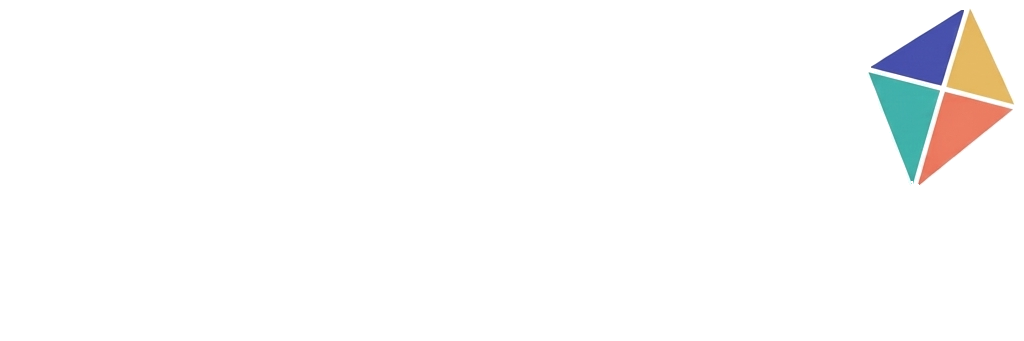
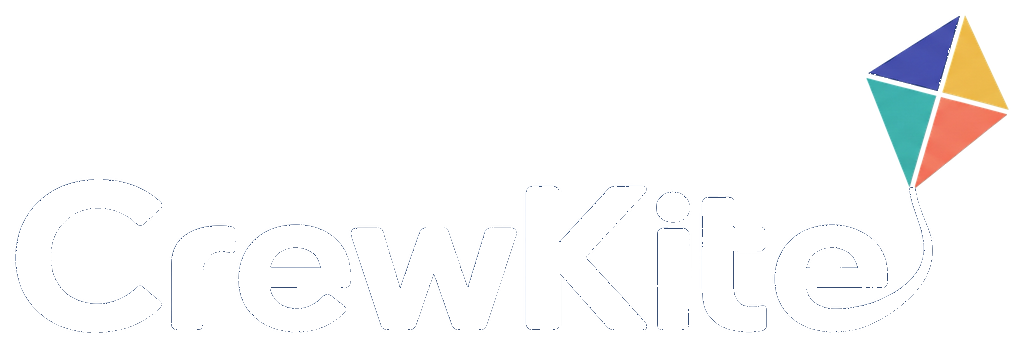
feat(desktop): use the revised wordmark
The revised wordmark has heavier lettering that stays readable at the
size the sidebar shows it, with the kite string running into the e. Both
files share one transparent alpha channel. The inverse only turns the
navy lettering and string white, so the kite pixels match in both themes.
The README image height follows the new aspect ratio.

diff --git a/README.md b/README.md
@@ -2,7 +2,7 @@
 
 <picture>
   <source media="(prefers-color-scheme: dark)" srcset="apps/desktop/src/renderer/assets/crewkite-wordmark-inverse.png">
-  <img src="apps/desktop/src/renderer/assets/crewkite-wordmark.png" alt="CrewKite" width="320" height="107">
+  <img src="apps/desktop/src/renderer/assets/crewkite-wordmark.png" alt="CrewKite" width="320" height="109">
 </picture>
 
 CrewKite is a local workspace for the coding agents you already pay for. It runs the OpenAI, Anthropic and Google clients, and a local model, as threads on your own computer. A thread can move from one provider to another and keep its messages and its edited files.
